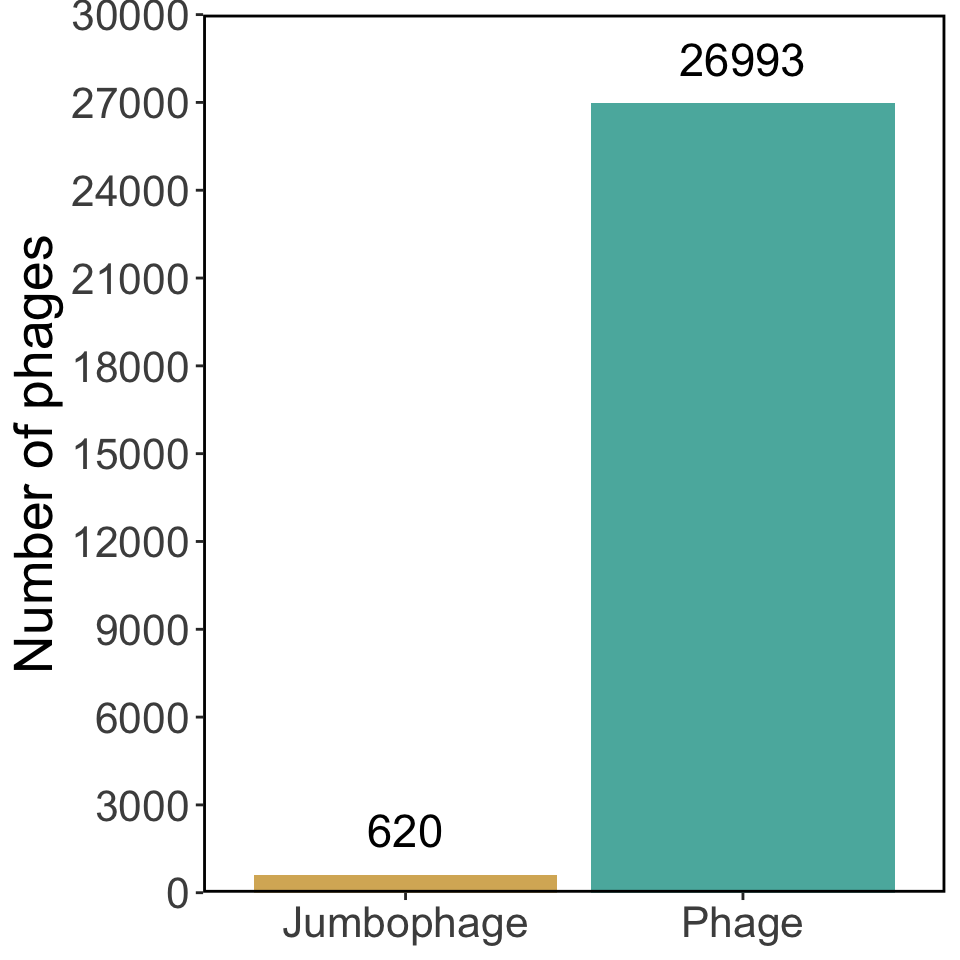
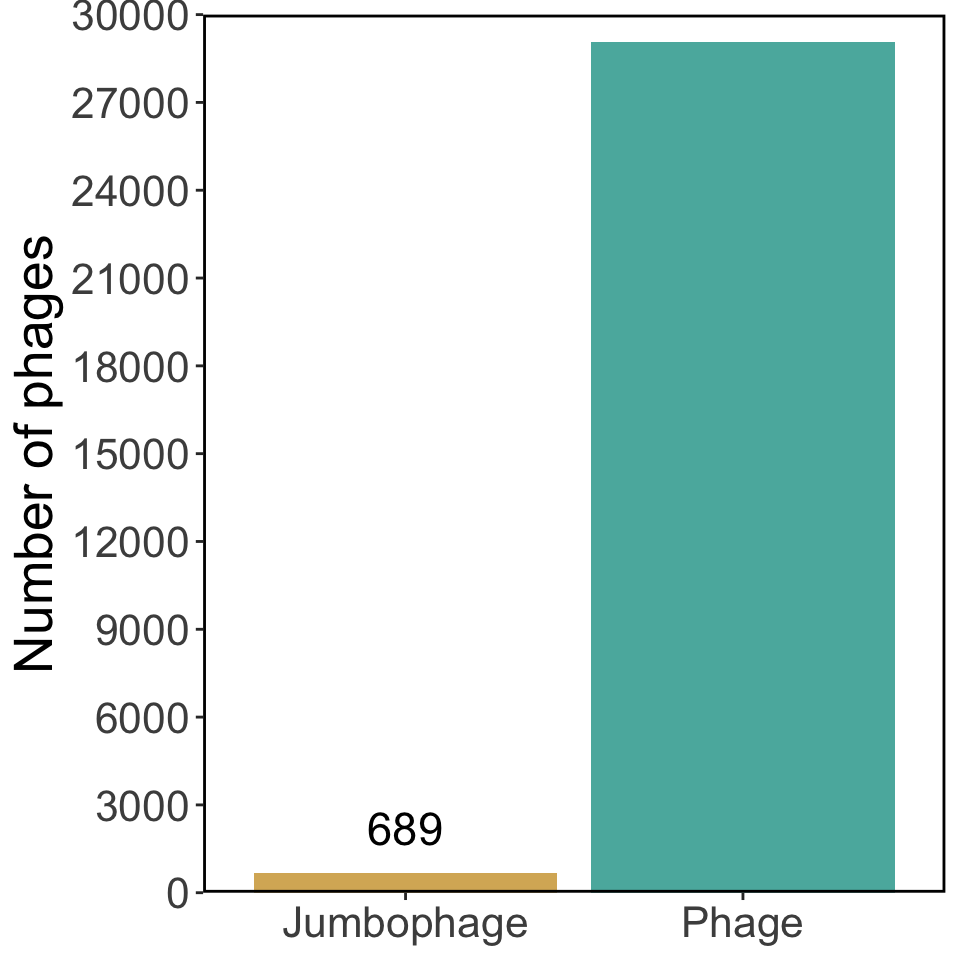
Built site for gh-pages

Changed region(s): [[0.5938, 0.0312, 0.9375, 0.125], [0.375, 0.8438, 0.4688, 0.9062]]

diff --git a/index.html b/index.html
@@ -176,7 +176,7 @@ ul.task-list li input[type="checkbox"] {
 <p><img src="images/logo.png" class="img-fluid figure-img" width="400"></p>
 </figure>
 </div>
-<p>Phages are the most abundant and diverse biological entities on the planet. However, our knowledge of them is quite limited. There are currently <strong>27613</strong> phage genomes in the NCBI and this number will continue to grow as researchers produce sequencing data. <strong>This website provides an overview of the number of <a href="jumbophages.html">phages and jumbo phages</a>, <a href="genome_size.html">size</a>, <a href="type_molecule.html">molecule type</a> and <a href="host.html">host</a> of bacteriophage genomes stored in the NCBI.</strong></p>
+<p>Phages are the most abundant and diverse biological entities on the planet. However, our knowledge of them is quite limited. There are currently <strong>29759</strong> phage genomes in the NCBI and this number will continue to grow as researchers produce sequencing data. <strong>This website provides an overview of the number of <a href="jumbophages.html">phages and jumbo phages</a>, <a href="genome_size.html">size</a>, <a href="type_molecule.html">molecule type</a> and <a href="host.html">host</a> of bacteriophage genomes stored in the NCBI.</strong></p>
 <section id="data-source" class="level2">
 <h2 class="anchored" data-anchor-id="data-source">Data source</h2>
 <p>The website uses the monthly dataset published by <a href="https://github.com/RyanCook94/inphared">INPHARED</a>. I used the <code>DateMonthYear_data.tsv</code>, to create all the plots and calculate the number of phages in the database. If you use this dataset, please have a look at their <a href="https://www.liebertpub.com/doi/10.1089/phage.2021.0007">publication</a>.</p>
@@ -184,7 +184,7 @@ ul.task-list li input[type="checkbox"] {
 <section id="updates" class="level2">
 <h2 class="anchored" data-anchor-id="updates">Updates</h2>
 <p>At the moment the website is updated manually every month and depends on the <a href="https://github.com/RyanCook94/inphared">INPHARED</a> dataset. I hope to be able to automate this process in the next few months.</p>
-<p>Last update 2024-04-14</p>
+<p>Last update 2024-10-24</p>
 </section>
 </section>
 

diff --git a/genome_size.html b/genome_size.html
@@ -201,7 +201,7 @@ pre > code.sourceCode > span > a:first-child::before { text-decoration: underlin
 <section id="genome-size" class="level1">
 <h1>Genome size</h1>
 <div class="justify">
-<p>The average genomes size of the jumbophages is 264 kbp while 58 kbp for no jumbophages. The longest jumbophage in the database has a genome length of 620 kbp.</p>
+<p>The average genomes size of the jumbophages is 274 kbp while 58 kbp for no jumbophages. The longest jumbophage in the database has a genome length of 735 kbp.</p>
 </div>
 <p><br></p>
 <div class="cell" data-layout-align="center" data-fig-heigth="8">
@@ -265,6 +265,14 @@ pre > code.sourceCode > span > a:first-child::before { text-decoration: underlin
 <span id="cb1-56"><a href="#cb1-56" aria-hidden="true" tabindex="-1"></a>        <span class="at">legend.position =</span> <span class="st">"none"</span></span>
 <span id="cb1-57"><a href="#cb1-57" aria-hidden="true" tabindex="-1"></a>    )</span></code><button title="Copy to Clipboard" class="code-copy-button"><i class="bi"></i></button></pre></div>
 </details>
+<div class="cell-output cell-output-stderr">
+<pre><code>Warning: Removed 2 rows containing missing values or values outside the scale range
+(`stat_slabinterval()`).</code></pre>
+</div>
+<div class="cell-output cell-output-stderr">
+<pre><code>Warning: Removed 2 rows containing non-finite outside the scale range
+(`stat_boxplot()`).</code></pre>
+</div>
 <div class="cell-output-display">
 <div class="quarto-figure quarto-figure-center">
 <figure class="figure">

diff --git a/jumbophages.html b/jumbophages.html
@@ -201,7 +201,7 @@ pre > code.sourceCode > span > a:first-child::before { text-decoration: underlin
 <section id="jumbophage-genomes" class="level1">
 <h1>Jumbophage genomes</h1>
 <div class="justify">
-<p>Tailed phages with genomes larger than 200 kbp are classified as jumbophages. Currently there are <strong>27613</strong> bacteriophage genomes in the NCBI and only <strong>2.25%</strong> of them are are classified as jumbophages.</p>
+<p>Tailed phages with genomes larger than 200 kbp are classified as jumbophages. Currently there are <strong>29759</strong> bacteriophage genomes in the NCBI and only <strong>2.32%</strong> of them are are classified as jumbophages.</p>
 </div>
 <p><br></p>
 <div class="cell" data-layout-align="center" data-fig-heigth="7">
@@ -250,6 +250,10 @@ pre > code.sourceCode > span > a:first-child::before { text-decoration: underlin
 <span id="cb1-41"><a href="#cb1-41" aria-hidden="true" tabindex="-1"></a>        <span class="at">legend.position =</span> <span class="st">"none"</span></span>
 <span id="cb1-42"><a href="#cb1-42" aria-hidden="true" tabindex="-1"></a>    )</span></code><button title="Copy to Clipboard" class="code-copy-button"><i class="bi"></i></button></pre></div>
 </details>
+<div class="cell-output cell-output-stderr">
+<pre><code>Warning: Removed 1 row containing missing values or values outside the scale range
+(`geom_text()`).</code></pre>
+</div>
 <div class="cell-output-display">
 <div class="quarto-figure quarto-figure-center">
 <figure class="figure">

diff --git a/host.html b/host.html
@@ -201,7 +201,7 @@ pre > code.sourceCode > span > a:first-child::before { text-decoration: underlin
 <section id="bacteriophage-host" class="level1">
 <h1>Bacteriophage host</h1>
 <div class="justify">
-<p>Bacteriophages in the NCBI are associated with 314 different hosts. Most of the bacteriophages are linked to <em>Mycobacterium</em> (3043), followed by <em>Escherichia</em> (2403), <em>Pseudomonas</em> (1439) and <em>Salmonella</em> (1270). Additionally, for a big portion of the phages (2929) the host is unknowm.</p>
+<p>Bacteriophages in the NCBI are associated with 329 different hosts. Most of the bacteriophages are linked to <em>Mycobacterium</em> (3123), followed by <em>Escherichia</em> (2559), <em>Pseudomonas</em> (1644) and <em>Salmonella</em> (1384). Additionally, for a big portion of the phages (3061) the host is unknowm.</p>
 </div>
 <p><br></p>
 <div class="cell">

diff --git a/type_molecule.html b/type_molecule.html
@@ -201,7 +201,7 @@ pre > code.sourceCode > span > a:first-child::before { text-decoration: underlin
 
 <section id="genome-molecule-type" class="level1">
 <h1>Genome molecule type</h1>
-<p>Bacteriophage genomes can be compose of DNA or RNA. In the NCBI the majority of bacteriophages have a DNA genome <strong>(96.9%)</strong> followed by ss-DNA genomes <strong>(2.9%)</strong>.</p>
+<p>Bacteriophage genomes can be compose of DNA or RNA. In the NCBI the majority of bacteriophages have a DNA genome <strong>(97.1%)</strong> followed by ss-DNA genomes <strong>(2.7%)</strong>.</p>
 <p><br></p>
 <div class="cell">
 <details>
